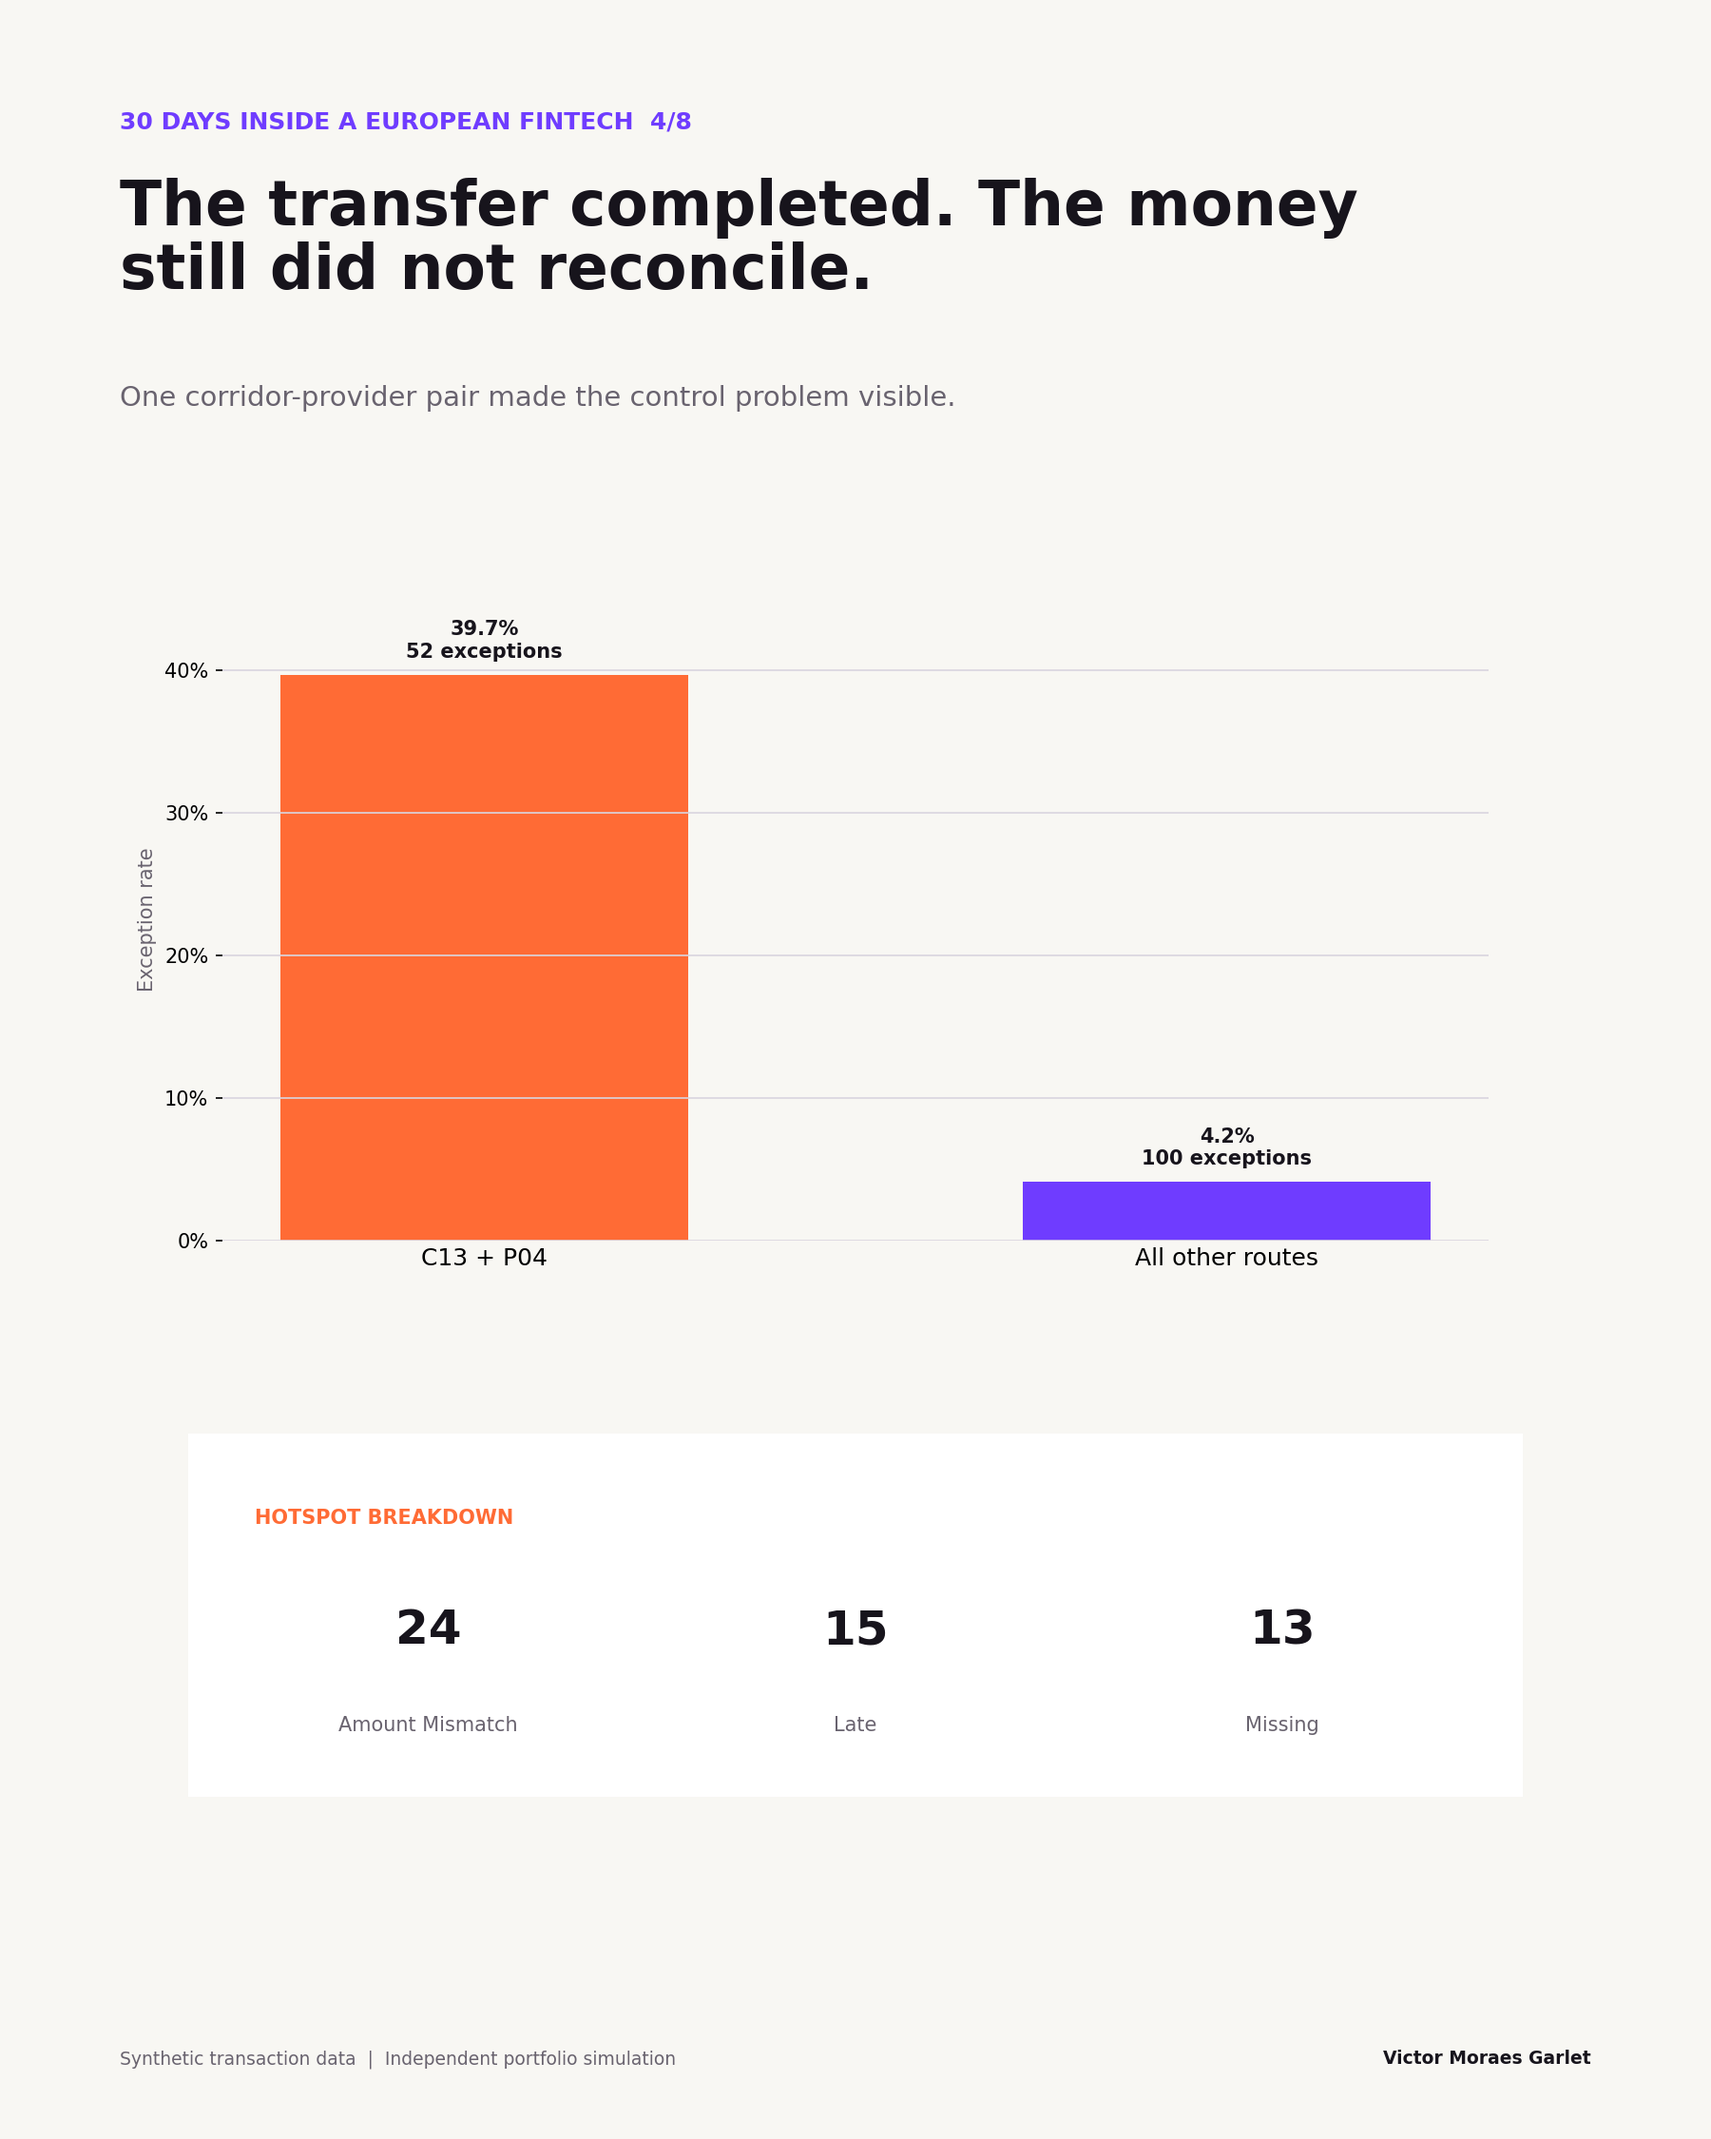
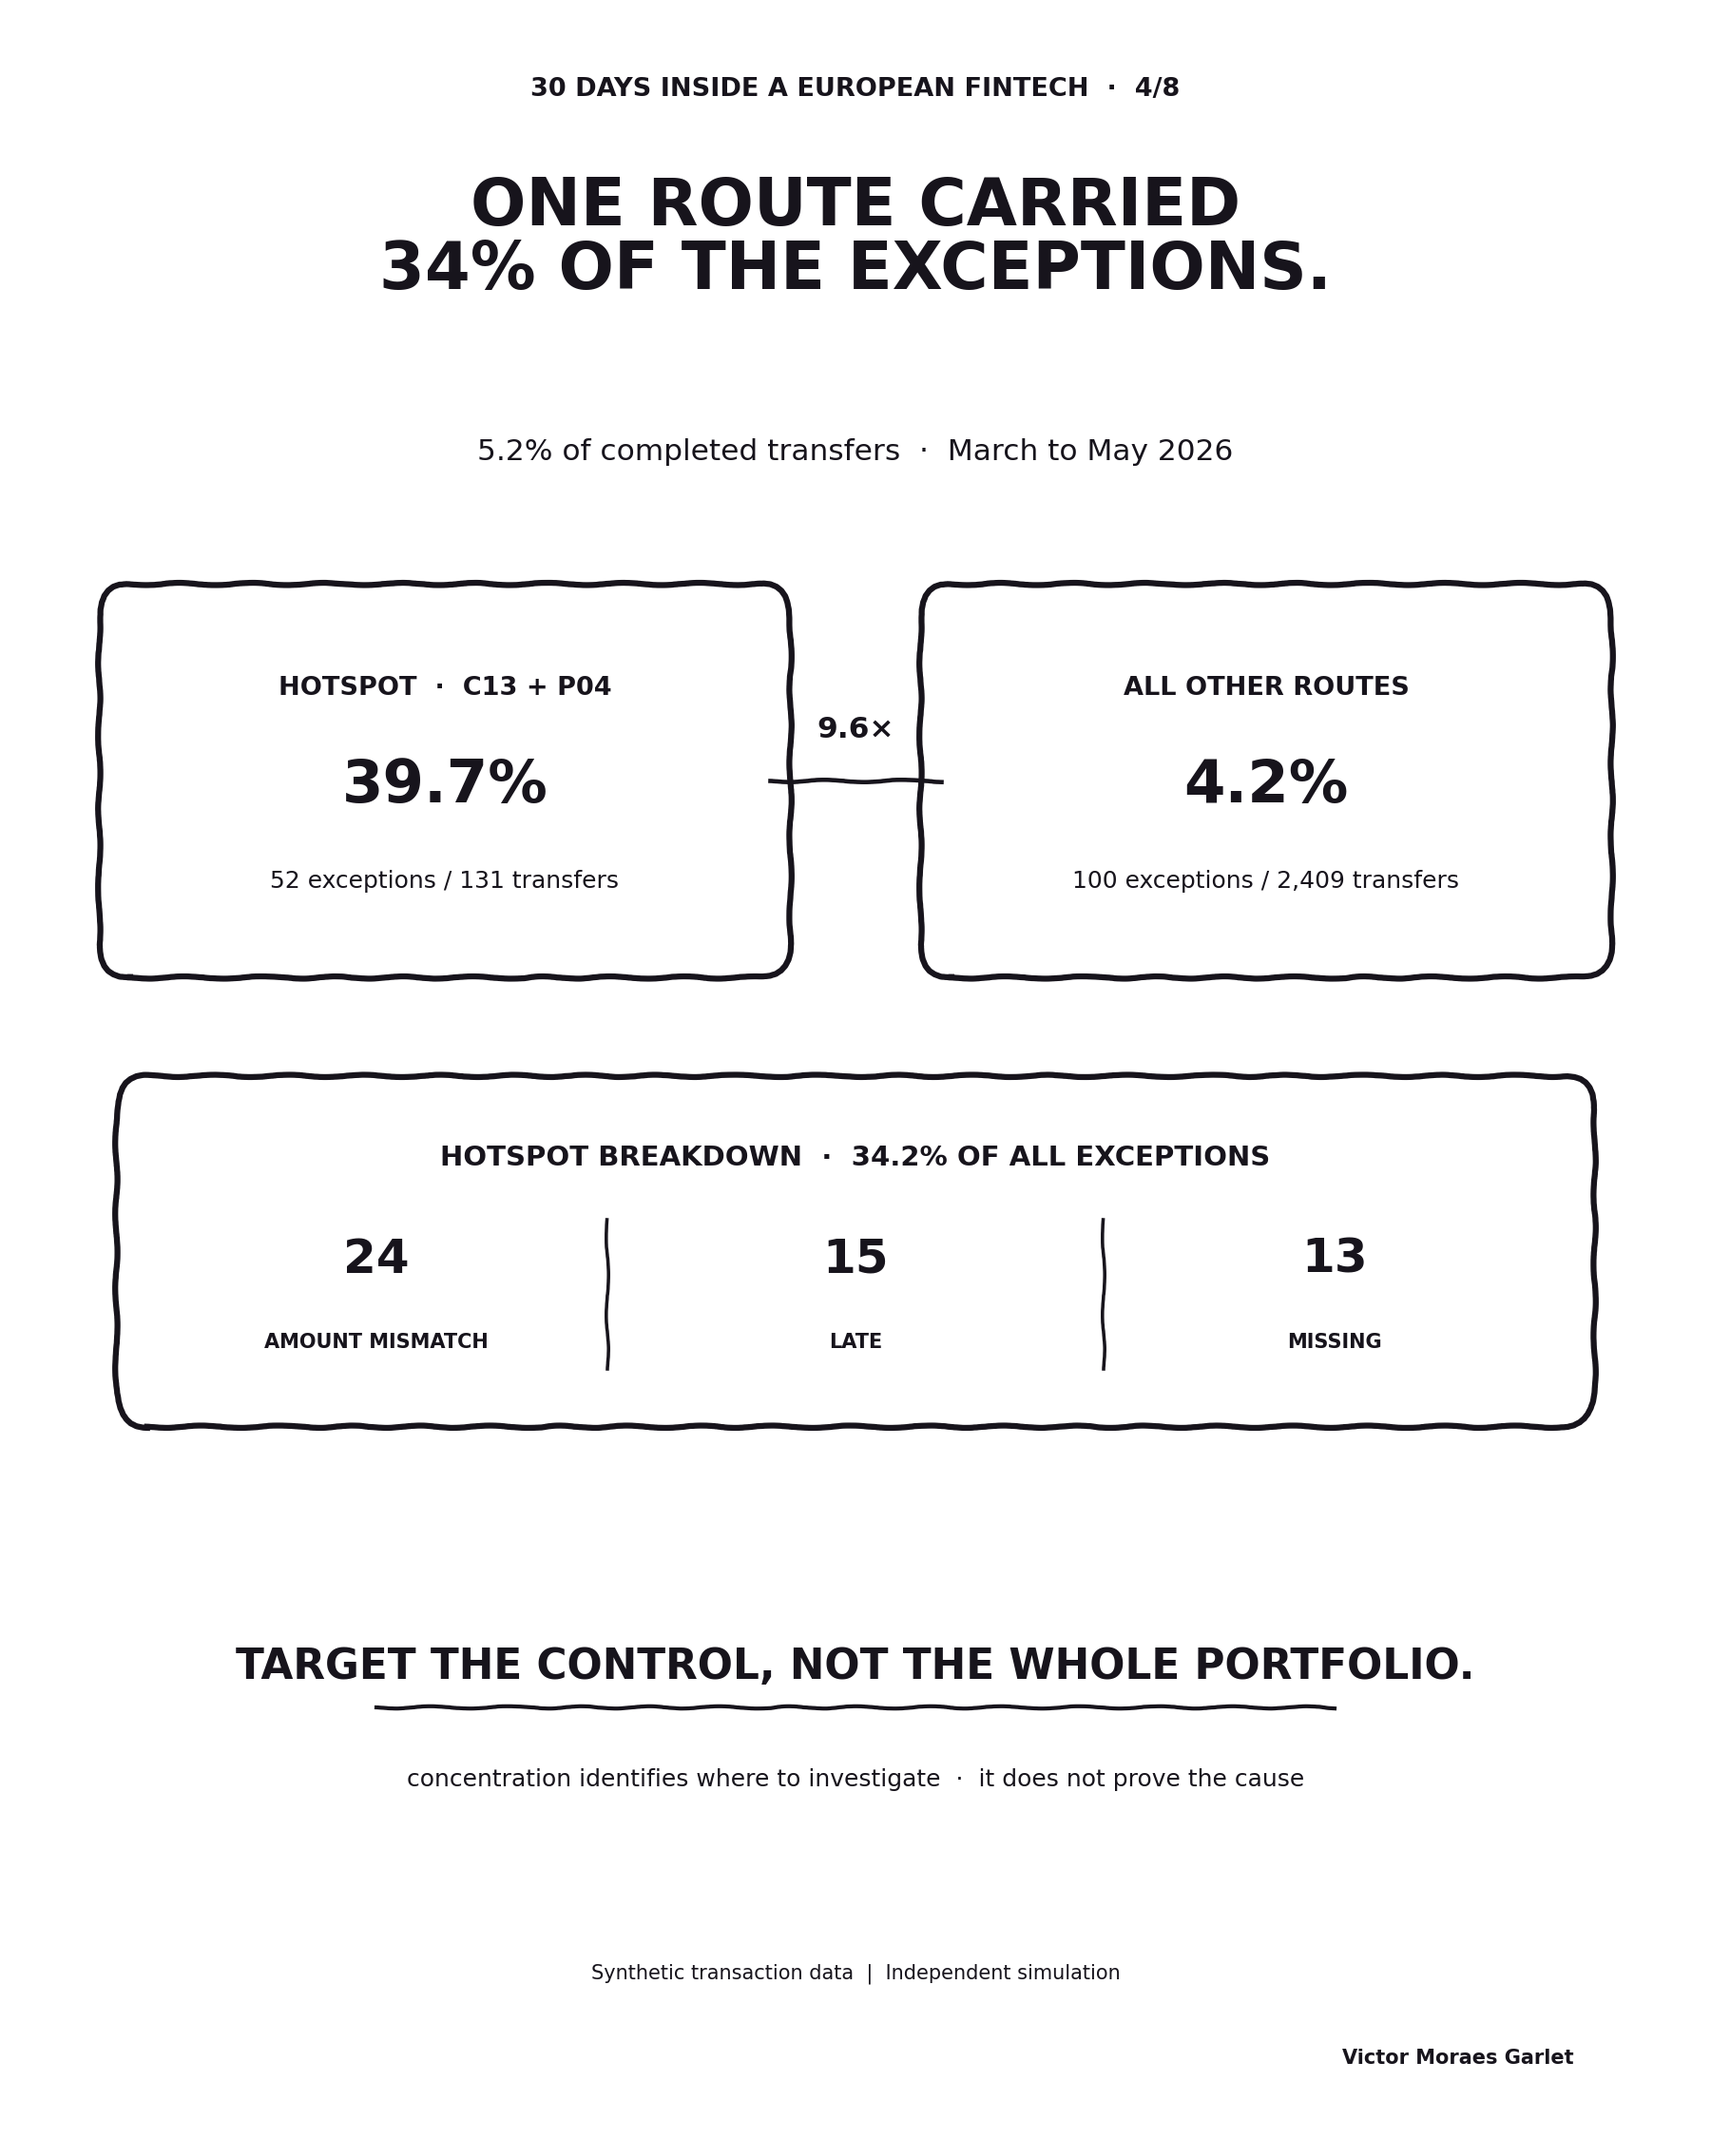
Approve and schedule episode 4

diff --git a/scripts/build_visuals.py b/scripts/build_visuals.py
@@ -298,34 +298,74 @@ def build_episode_04(connection):
         """
     ).fetchall()
 
-    fig, _ = base_figure(
-        4,
-        "The transfer completed. The money\nstill did not reconcile.",
-        "One corridor-provider pair made the control problem visible.",
-    )
-    ax = fig.add_axes((0.13, 0.42, 0.74, 0.30), facecolor=PAPER)
-    groups = [row[0] for row in rows]
-    rates = [row[3] for row in rows]
-    bars = ax.bar(groups, rates, color=[ORANGE, PURPLE], width=0.55)
-    ax.spines[:].set_visible(False)
-    ax.grid(axis="y", color=LINE, linewidth=0.8)
-    ax.set_ylabel("Exception rate", color=MUTED)
-    ax.set_ylim(0, 45)
-    ax.set_yticks([0, 10, 20, 30, 40], ["0%", "10%", "20%", "30%", "40%"])
-    ax.tick_params(axis="x", length=0, labelsize=12)
-    for bar, row in zip(bars, rows):
-        ax.text(bar.get_x() + bar.get_width() / 2, bar.get_height() + 1.2, f"{row[3]:.1f}%\n{row[2]:.0f} exceptions", ha="center", fontweight="bold", color=INK)
+    route_metrics = {row[0]: row for row in rows}
+    hotspot = route_metrics["C13 + P04"]
+    rest = route_metrics["All other routes"]
+    total_transfers = hotspot[1] + rest[1]
+    total_exceptions = hotspot[2] + rest[2]
+    transfer_share = 100.0 * hotspot[1] / total_transfers
+    exception_share = 100.0 * hotspot[2] / total_exceptions
+    rate_multiple = hotspot[3] / rest[3]
+    reason_counts = {reason: count for reason, count in reason_rows}
 
-    card_ax = fig.add_axes((0.11, 0.16, 0.78, 0.17))
-    card_ax.set_xlim(0, 1)
-    card_ax.set_ylim(0, 1)
-    card_ax.axis("off")
-    card(card_ax, 0, 0, 1, 1, WHITE)
-    card_ax.text(0.05, 0.75, "HOTSPOT BREAKDOWN", color=ORANGE, fontsize=10, fontweight="bold")
-    x_positions = [0.18, 0.50, 0.82]
-    for x, (reason, count) in zip(x_positions, reason_rows):
-        card_ax.text(x, 0.42, f"{count}", ha="center", color=INK, fontsize=24, fontweight="bold")
-        card_ax.text(x, 0.18, reason.replace("_", " ").title(), ha="center", color=MUTED, fontsize=10)
+    fig = plt.figure(figsize=(12, 15), facecolor=WHITE)
+    ax = fig.add_axes((0, 0, 1, 1))
+    ax.set_xlim(0, 1)
+    ax.set_ylim(0, 1)
+    ax.axis("off")
+
+    def rough_card(x, y, width, height, linewidth=2.5):
+        patch = FancyBboxPatch(
+            (x, y),
+            width,
+            height,
+            boxstyle="round,pad=0.012,rounding_size=0.018",
+            linewidth=linewidth,
+            edgecolor=INK,
+            facecolor=WHITE,
+        )
+        patch.set_sketch_params(scale=1.2, length=90, randomness=2.5)
+        ax.add_patch(patch)
+
+    def rough_line(xs, ys, linewidth=2.2):
+        line, = ax.plot(xs, ys, color=INK, linewidth=linewidth)
+        line.set_sketch_params(scale=1.2, length=90, randomness=2.5)
+
+    fig.text(0.50, 0.955, "30 DAYS INSIDE A EUROPEAN FINTECH  ·  4/8", ha="center", color=INK, fontsize=13, fontweight="bold")
+    fig.text(0.50, 0.865, "ONE ROUTE CARRIED\n34% OF THE EXCEPTIONS.", ha="center", color=INK, fontsize=33, fontweight="bold", linespacing=1.0)
+    fig.text(0.50, 0.785, f"{transfer_share:.1f}% of completed transfers  ·  March to May 2026", ha="center", color=INK, fontsize=15)
+
+    rough_card(0.07, 0.555, 0.38, 0.16, 3.0)
+    ax.text(0.26, 0.675, "HOTSPOT  ·  C13 + P04", ha="center", color=INK, fontsize=13, fontweight="bold")
+    ax.text(0.26, 0.625, f"{hotspot[3]:.1f}%", ha="center", color=INK, fontsize=30, fontweight="bold")
+    ax.text(0.26, 0.585, f"{hotspot[2]} exceptions / {hotspot[1]} transfers", ha="center", color=INK, fontsize=12)
+
+    rough_card(0.55, 0.555, 0.38, 0.16, 3.0)
+    ax.text(0.74, 0.675, "ALL OTHER ROUTES", ha="center", color=INK, fontsize=13, fontweight="bold")
+    ax.text(0.74, 0.625, f"{rest[3]:.1f}%", ha="center", color=INK, fontsize=30, fontweight="bold")
+    ax.text(0.74, 0.585, f"{rest[2]} exceptions / {rest[1]:,} transfers", ha="center", color=INK, fontsize=12)
+
+    rough_line([0.45, 0.55], [0.635, 0.635], 2.2)
+    ax.text(0.50, 0.655, f"{rate_multiple:.1f}×", ha="center", color=INK, fontsize=15, fontweight="bold")
+
+    rough_card(0.08, 0.345, 0.84, 0.14, 3.0)
+    ax.text(0.50, 0.455, f"HOTSPOT BREAKDOWN  ·  {exception_share:.1f}% OF ALL EXCEPTIONS", ha="center", color=INK, fontsize=14, fontweight="bold")
+    breakdown = [
+        (0.22, reason_counts["amount_mismatch"], "AMOUNT MISMATCH"),
+        (0.50, reason_counts["late"], "LATE"),
+        (0.78, reason_counts["missing"], "MISSING"),
+    ]
+    for x, count, label in breakdown:
+        ax.text(x, 0.405, f"{count}", ha="center", color=INK, fontsize=24, fontweight="bold")
+        ax.text(x, 0.37, label, ha="center", color=INK, fontsize=10, fontweight="bold")
+    rough_line([0.355, 0.355], [0.36, 0.43], 1.7)
+    rough_line([0.645, 0.645], [0.36, 0.43], 1.7)
+
+    ax.text(0.50, 0.215, "TARGET THE CONTROL, NOT THE WHOLE PORTFOLIO.", ha="center", color=INK, fontsize=21, fontweight="bold")
+    rough_line([0.22, 0.78], [0.202, 0.202], 2.0)
+    ax.text(0.50, 0.165, "concentration identifies where to investigate  ·  it does not prove the cause", ha="center", color=INK, fontsize=12)
+    fig.text(0.50, 0.075, "Synthetic transaction data  |  Independent simulation", ha="center", color=INK, fontsize=10)
+    fig.text(0.92, 0.035, "Victor Moraes Garlet", ha="right", color=INK, fontsize=10, fontweight="bold")
     save(fig, "episode_04_reconciliation_hotspot.png")
 
 

diff --git a/tests/test_public_content.py b/tests/test_public_content.py
@@ -37,7 +37,7 @@ class PublicContentTestCase(unittest.TestCase):
 
     def test_editorial_calendar_tracks_release_status(self):
         calendar = (PROJECT_ROOT / "content" / "editorial_calendar.md").read_text(encoding="utf-8")
-        self.assertEqual(calendar.count("Hold for approval"), 5)
+        self.assertEqual(calendar.count("Hold for approval"), 4)
         self.assertIn(
             "| 1 | Tue, 29 Sep 2026 | Frame the take-rate decision | Metric tree | Scheduled for 08:00 Europe/Dublin |",
             calendar,
@@ -48,6 +48,10 @@ class PublicContentTestCase(unittest.TestCase):
         )
         self.assertIn(
             "| 3 | Tue, 6 Oct 2026 | Reconcile Finance and Operations clocks | Reporting bridge | Scheduled for 08:00 Europe/Dublin |",
+            calendar,
+        )
+        self.assertIn(
+            "| 4 | Fri, 9 Oct 2026 | Isolate the settlement hotspot | Exception-rate comparison | Scheduled for 08:00 Europe/Dublin |",
             calendar,
         )
 

diff --git a/content/posts/episode_04.md b/content/posts/episode_04.md
@@ -1,45 +1,60 @@
 # Episode 4: Isolate the reconciliation hotspot
 
-**Status:** Draft for approval  
+**Status:** Scheduled for Fri, 9 Oct 2026 at 08:00 Europe/Dublin
 **Visual:** `content/visuals/episode_04_reconciliation_hotspot.png`
 
 ## Post copy
+
+One corridor-provider pair represented 5.2% of completed transfers and 34.2% of all settlement exceptions.
 
 **30 Days Inside a European Fintech [4/8]**
 
 I'm using Wise's public disclosures and synthetic data to simulate how a Senior Data Analyst could work through a fintech problem from question to decision.
 
-The monthly reconciliation rate was getting worse, but the portfolio average hid the operational cause.
+In Episode 3, a $146.9k difference between Finance and Operations disappeared once I reconciled their event clocks. The remaining exceptions did not disappear with it.
 
-From March to May, one corridor-provider pair recorded 52 exceptions across 131 completed transfers.
+The next question was whether those exceptions were spread across the operation or concentrated somewhere that a team could act on.
 
-Its exception rate was 39.7%.
+From March to May, the C13/P04 route recorded 52 exceptions across 131 completed transfers.
 
-Across every other route, the rate was 4.2%.
+Its exception rate was 39.7%, around 9.6 times the 4.2% across every other route.
 
 The hotspot contained:
 
-• 24 amount mismatches  
-• 15 late settlements  
+• 24 amount mismatches
+
+• 15 late settlements
+
 • 13 missing settlements
 
-That pattern changes the response.
+That concentration changes the response, but it does not yet prove that the provider caused the problem.
 
-A portfolio-wide alert would create noise for teams that cannot act on the issue. A route-level queue can carry the provider, corridor, reason code, owner, financial variance and ageing needed to investigate it.
+The pattern could come from provider handling, a corridor configuration or a file-processing control. Removing P04 immediately would turn an observational result into a causal claim.
 
-I built the exception mart at transfer grain, then aggregated only for the decision view. That keeps the headline rate traceable to each settlement record.
+I built the exception mart at transfer grain and aggregated only for the decision view. Each headline number remains traceable to a transfer ID, expected and actual settlement, amount variance, exception status and event timestamps.
 
-The recommended control is route-specific:
+My immediate recommendation would be a route-specific investigation queue:
 
-• assign an owner to C13/P04  
-• separate missing, late and mismatched settlements  
-• monitor unresolved ageing, not only the daily count  
+• assign one owner to the C13/P04 control
+
+• keep missing, late and mismatched settlements separate
+
+• monitor unresolved ageing, not only the daily count
+
 • reconcile amount mismatches to their financial exposure
 
-The lesson for me was that a rising exception rate is still only a symptom. The useful analysis identifies where the workflow broke and gives Operations a queue they can actually clear.
+This gives Payments Operations something they can clear while preserving the evidence needed for a provider or process decision.
 
-Quick glossary  
-*Reconciliation exception = a settlement that is missing, late or different from the expected amount.  
+If the concentration remains after the control is fixed, the case for a provider escalation becomes stronger. Until then, I would target the workflow rather than blame the whole portfolio.
+
+Next, I will return to the 2.18 bps take-rate decline and separate intentional lower pricing from unexpected leakage.
+
+Quick glossary
+
+*Reconciliation exception = a settlement that is missing, late or different from the expected amount.
+
 *Ageing = how long an exception remains unresolved.
 
-This is an independent simulation inspired by Wise's public disclosures. I am not affiliated with Wise. All transaction-level data and project findings are synthetic; any company-level figures are sourced from public reports.
+*Reason code = a standard label describing why an exception occurred.
+
+Disclosure: This is an independent simulation inspired by Wise's public disclosures. I am not affiliated with Wise. All transaction-level data and project findings are synthetic; any company-level figures are sourced from public reports.

diff --git a/content/editorial_calendar.md b/content/editorial_calendar.md
@@ -6,14 +6,14 @@ Publish twice per week, Tuesday and Friday at 08:00 Europe/Dublin.
 
 The technical project can be completed in one sprint. The public story benefits from four weeks because each post has time to circulate, collect discussion and lead naturally into the next decision.
 
-Episodes 1–3 are scheduled. Episodes 4–8 remain on hold for review and approval.
+Episodes 1–4 are scheduled. Episodes 5–8 remain on hold for review and approval.
 
 | Episode | Date | Role in the series | Visual | Status |
 | --- | --- | --- | --- | --- |
 | 1 | Tue, 29 Sep 2026 | Frame the take-rate decision | Metric tree | Scheduled for 08:00 Europe/Dublin |
 | 2 | Fri, 2 Oct 2026 | Establish the evidence boundary | Evidence layers | Scheduled for 08:00 Europe/Dublin |
 | 3 | Tue, 6 Oct 2026 | Reconcile Finance and Operations clocks | Reporting bridge | Scheduled for 08:00 Europe/Dublin |
-| 4 | Fri, 9 Oct 2026 | Isolate the settlement hotspot | Exception-rate comparison | Hold for approval |
+| 4 | Fri, 9 Oct 2026 | Isolate the settlement hotspot | Exception-rate comparison | Scheduled for 08:00 Europe/Dublin |
 | 5 | Tue, 13 Oct 2026 | Decompose the take-rate movement | Waterfall | Hold for approval |
 | 6 | Fri, 16 Oct 2026 | Evaluate speed, cost and support | Trade-off chart | Hold for approval |
 | 7 | Tue, 20 Oct 2026 | Convert findings into actions and a test | Decision matrix | Hold for approval |
